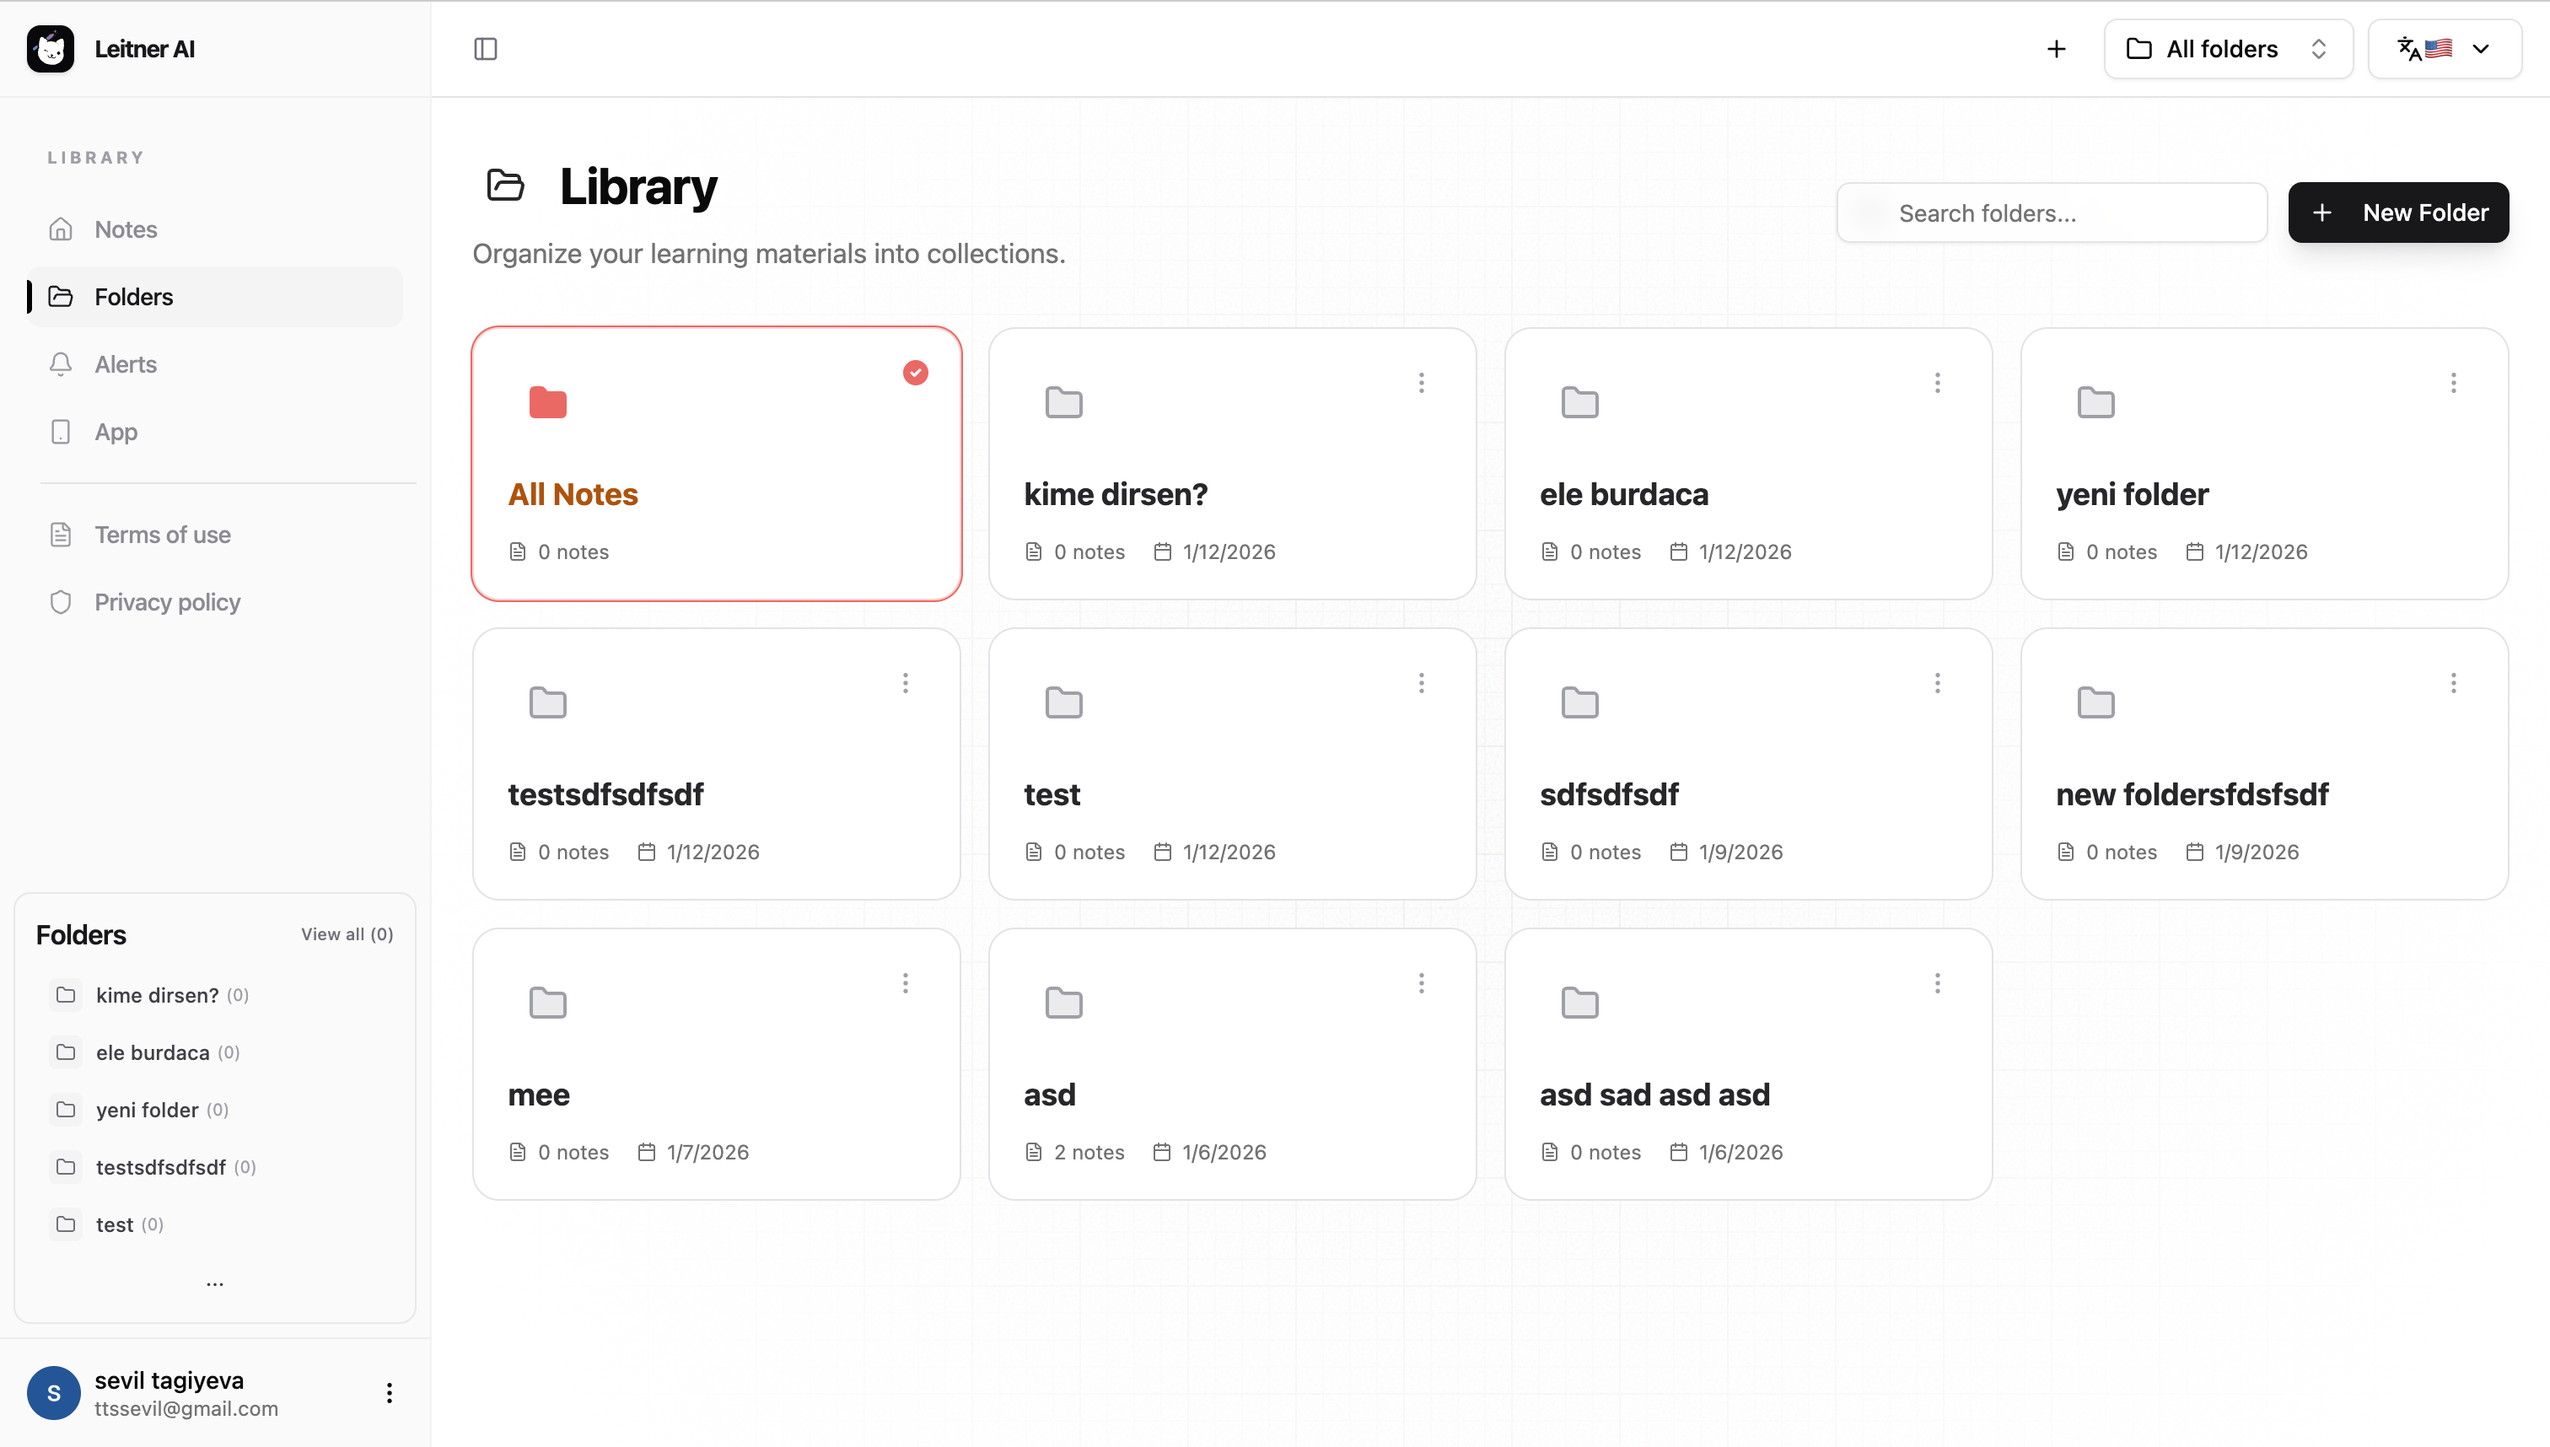
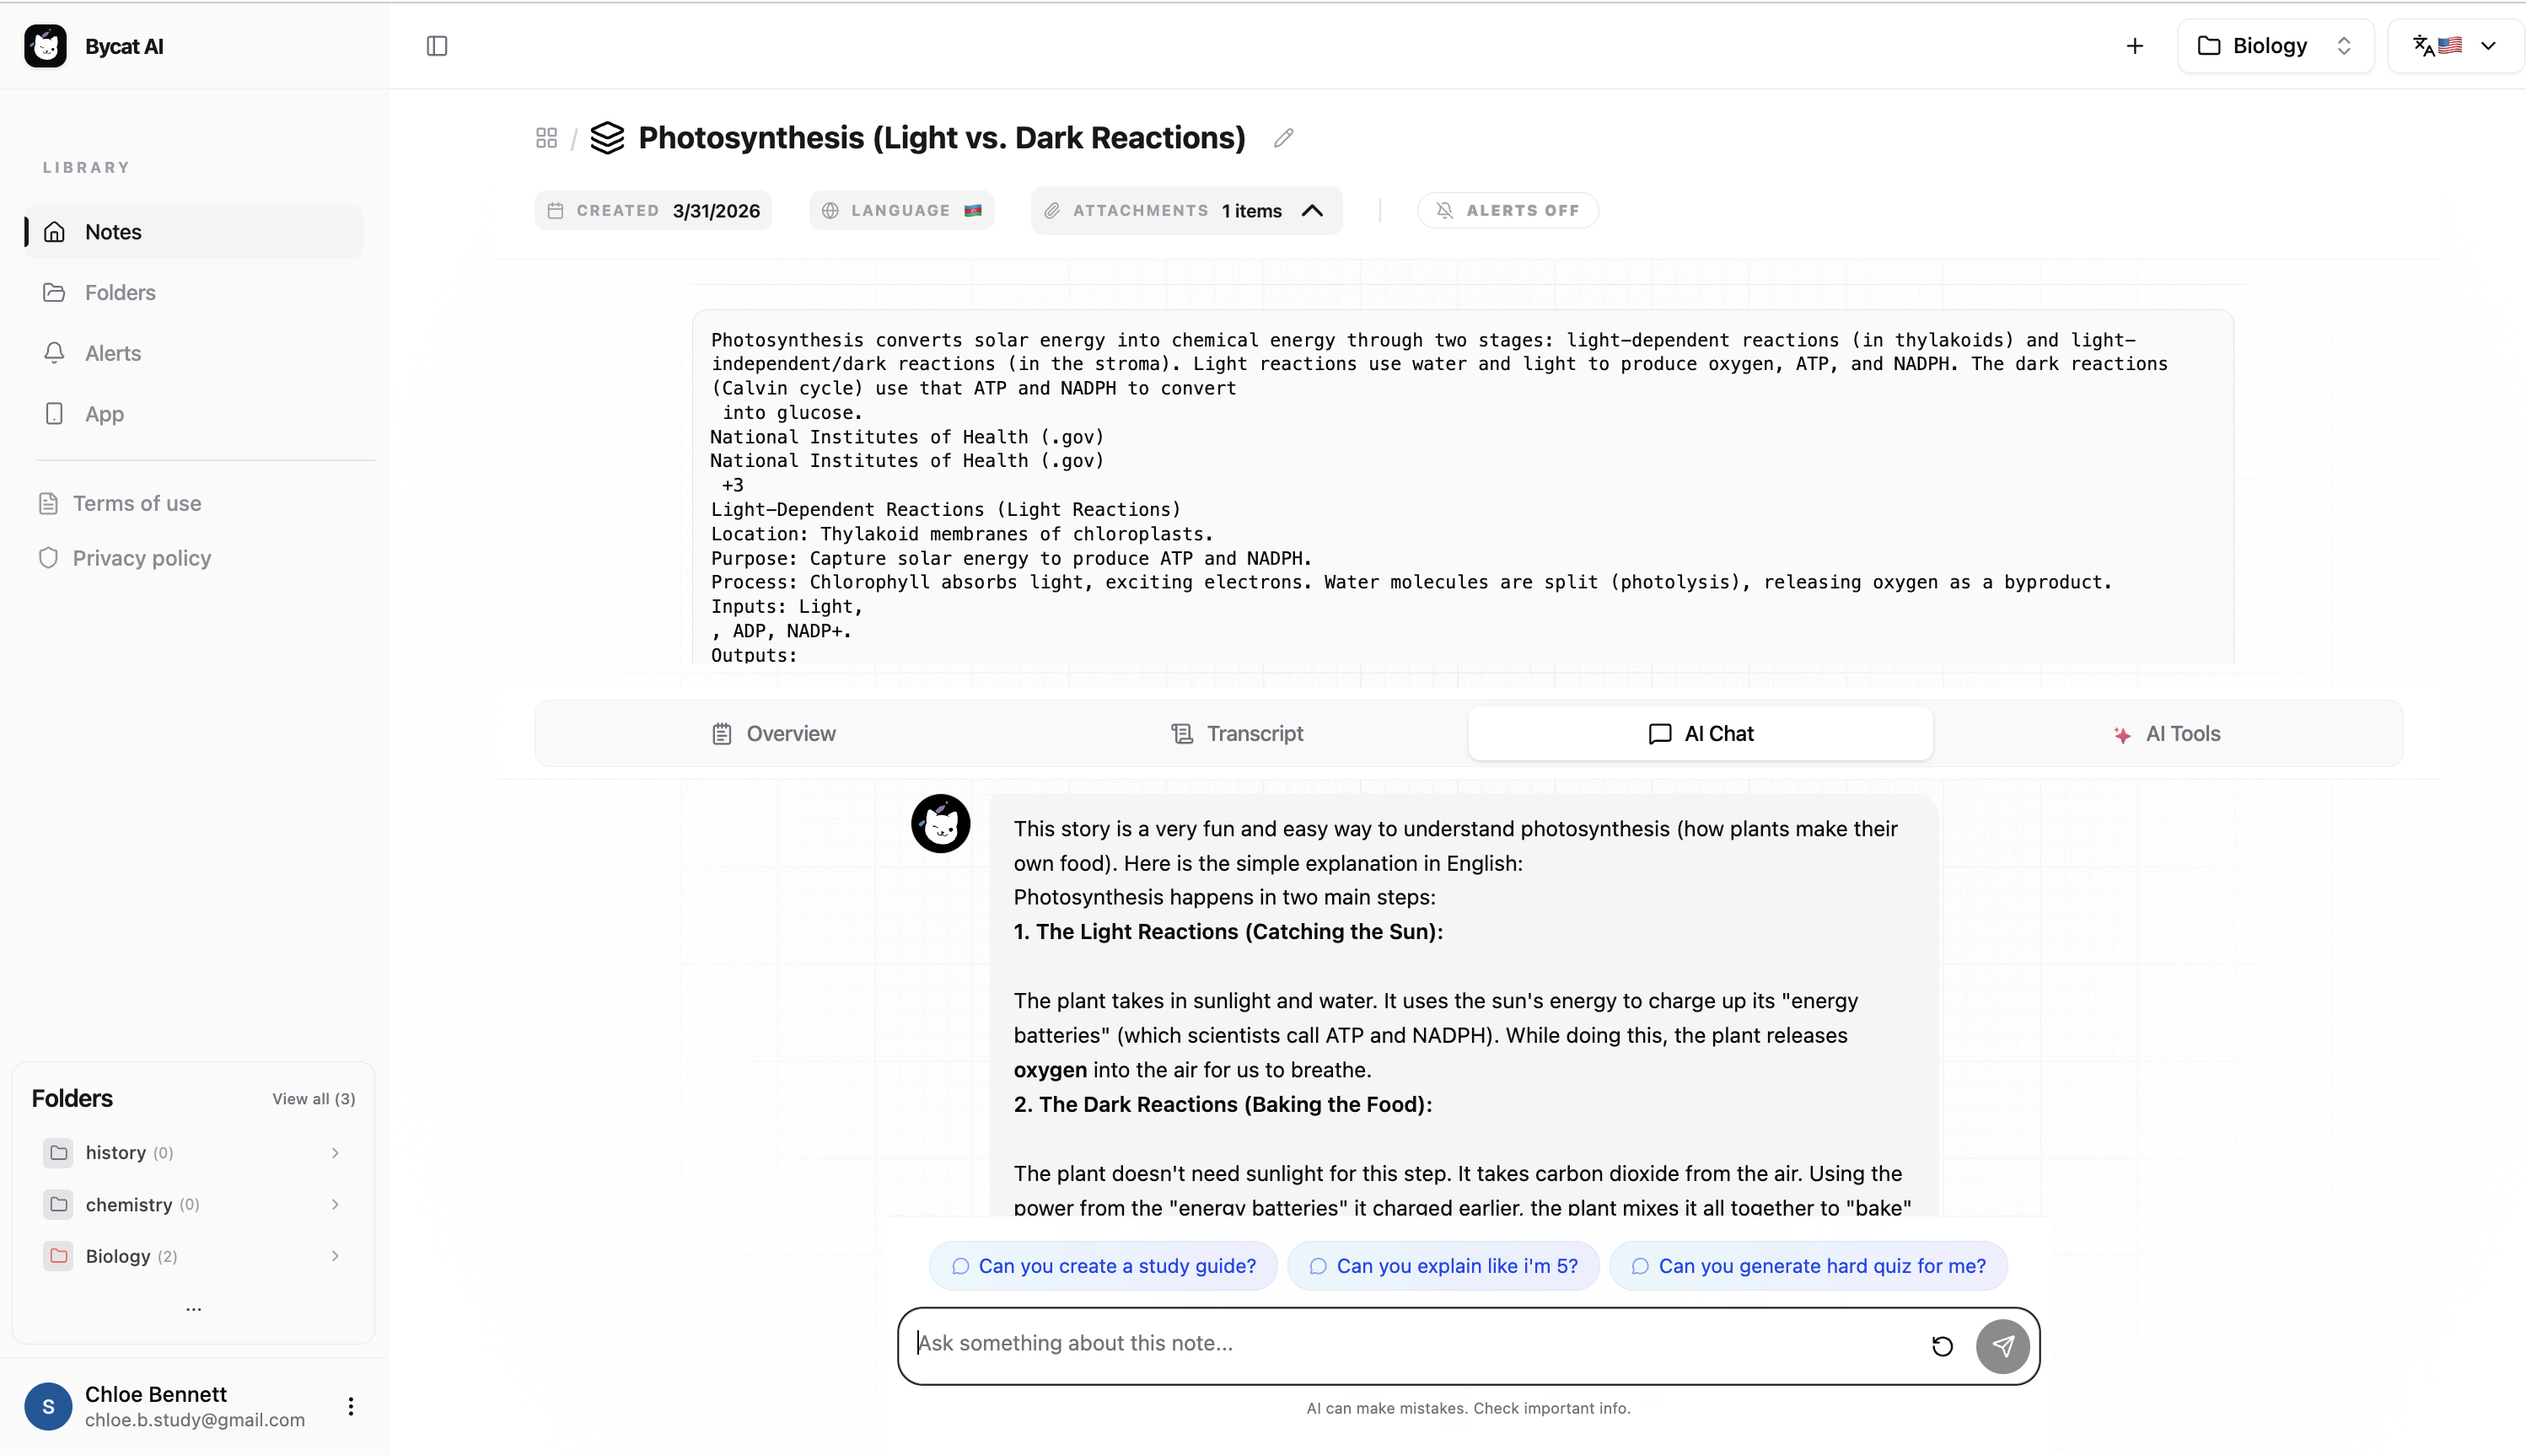
some seo optimizations

diff --git a/components/sections/pricing/default.tsx b/components/sections/pricing/default.tsx
@@ -20,8 +20,8 @@ export const PRICING_TIERS_CLAIM = [
     defaultPrice: 5.99,
     originalPrice: 0,
     description: "Perfect for short-term projects.",
-    discountId: "dsc_01kj5c3fkwfqcq1wdhect5nr19",
-    priceId: "pri_01kaxbbdytvqamegsd7e486r59", 
+    discountId: "dsc_01kn732qx3f2tk2pdpvjj2dav5",
+    priceId: "pri_01kn72e7s269tnzcakpvf9fvs5", 
     features: ['Unlimited notes', 'AI Chat', 'Unlimited quizzes & flashcards', 'Quiz notifications'],
   },
   {
@@ -34,26 +34,28 @@ export const PRICING_TIERS_CLAIM = [
     originalPrice: 6.99,
     discount: "50% OFF",
     description: "Recommended for ongoing usage.",
-    discountId: 'dsc_01kjt6watya70vrj8ctk8mbqpd',
-    priceId: "pri_01kjzazeat2rnb5vbaq9swatss", 
+    discountId: 'dsc_01kn733smjmmk9y4qhyhymvrfe',
+    priceId: "pri_01kn72r9q9rxq8sa54n4xe51w6", 
     features: ['Unlimited notes', 'AI Chat', 'Unlimited quizzes & flashcards', 'Quiz notifications'],
-    isPopular: true, 
+    isPopular: true, // Helper flag for default selection
   },
   {
     key: "annual",
     id: "pro_annual",
-    unit: "mo", // displaying as monthly equivalent
+    unit: "month",
     name: "Annual",
     defaultPrice: 79.99,
-    originalPrice: 65.89, 
+    originalPrice: 65.89, //239 dan endirime claimsiz gelende
     discount: "80% OFF",
     claimOffer: "+2 month free",
+    montly_price: 65.89,
     discountId: 'dsc_01kjt7062j64y950pwkfxttr8s',
-    priceId: "pri_01kjzb2btfc48bwr1s3jwjfc73",
+    priceId: "pri_01kn72whp6q7grp3jhzadkhnny",
     description: "Best value. Save significantly.",
     features: ['Unlimited notes', 'AI Chat', 'Unlimited quizzes & flashcards', 'Quiz notifications'],
   },
 ];
+
 
 export const PRICING_TIERS = [
   {
@@ -61,10 +63,9 @@ export const PRICING_TIERS = [
     id: "pro_weekly",
     unit: "week",
     name: "Weekly",
-    defaultPrice: null, // No strike-through for normal weekly
     originalPrice: 5.99,
     description: "Perfect for short-term projects.",
-    priceId: "pri_01kaxbbdytvqamegsd7e486r59", 
+    priceId: "pri_01kn72e7s269tnzcakpvf9fvs5", 
     features: ['Unlimited notes', 'AI Chat', 'Unlimited quizzes & flashcards', 'Quiz notifications'],
   },
   {
@@ -74,24 +75,24 @@ export const PRICING_TIERS = [
     name: "Monthly",
     defaultPrice: 34.99,
     originalPrice: 11.99,
-    discountId: 'dsc_01kbaks5he1g277bedvg06xs1m',
+    discountId: 'dsc_01kn728x05nvebcaadtwavjyjv',
     discount: "50% OFF",
     description: "Recommended for ongoing usage.",
-    priceId: "pri_01kaxb9tc7q2kqmh0c3rhda462", 
+    priceId: "pri_01kn72g7y1k1was8fy04fnk5pr", 
     features: ['Unlimited notes', 'AI Chat', 'Unlimited quizzes & flashcards', 'Quiz notifications'],
-    isPopular: true, 
+    isPopular: true, // Helper flag for default selection
   },
   {
     key: "annual",
     id: "pro_annual",
     name: "Annual",
-    unit: "mo", // displaying as monthly equivalent
+    unit: "month",
     defaultPrice: 239.99,
-    originalPrice: 79.99, 
+    originalPrice: 79.99, //239 dan endirime claimsiz gelende
     discount: "80% OFF",
-    discountId: 'dsc_01kbaksng47cf7gsr4wht0xrdq',
+    discountId: 'dsc_01kn7312xn4mas8fn4bbybkadp',
     description: "Best value. Save significantly.",
-    priceId: "pri_01kaxb7rjs3vkn4dtjrk8x7hmh",
+    priceId: "pri_01kn72nntvwtbx9fxpjq1sjyh2",
     features: ['Unlimited notes', 'AI Chat', 'Unlimited quizzes & flashcards', 'Quiz notifications'],
   },
 ];
@@ -102,7 +103,7 @@ export default function Pricing({ banner }: { banner?: any }) {
 
   // 1. Determine which data set to use based on the promo banner
   const hasPromo = !!banner;
-  const activeTiers = PRICING_TIERS;
+  const activeTiers = hasPromo ? PRICING_TIERS_CLAIM : PRICING_TIERS;
 
   useEffect(() => {
     let paddleInstance: Paddle | undefined;

diff --git a/components/sections/items/default.tsx b/components/sections/items/default.tsx
@@ -29,17 +29,17 @@ export default function Items({
   title = "Turn any content into knowledge.",
   items = [
     {
-      title: "Video to Notes",
+      title: "YouTube to Notes AI Summary",
       description: "Paste a YouTube link and get a comprehensive summary, transcript, and key points in seconds.",
       icon: <YoutubeIcon className="size-5 stroke-1" />,
     },
     {
-      title: "Smart PDF Reader",
+      title: "Smart PDF Reader & Chat",
       description: "Upload textbooks, research papers, or slides. We extract the text and organize the insights for you.",
       icon: <FileTextIcon className="size-5 stroke-1" />,
     },
     {
-      title: "Audio Transcription",
+      title: "Audio Lecture Transcription",
       description:
         "Record lectures or upload audio files. Perfect for meetings, seminars, and voice memos.",
       icon: <MicIcon className="size-5 stroke-1" />,
@@ -97,3 +97,40 @@ export default function Items({
     </Section>
   );
 }
+
+
+<script
+  type="application/ld+json"
+  dangerouslySetInnerHTML={{
+    __html: JSON.stringify({
+      "@context": "https://schema.org",
+      "@type": "FAQPage",
+      "mainEntity":[
+        {
+          "@type": "Question",
+          "name": "What formats can Bycat AI process?",
+          "acceptedAnswer": {
+            "@type": "Answer",
+            "text": "Bycat AI can process YouTube videos (up to 2 hours), Audio files (up to 3 hours), PDFs and Documents (up to 500 pages), and Images."
+          }
+        },
+        {
+          "@type": "Question",
+          "name": "Can I use Bycat AI for languages other than English?",
+          "acceptedAnswer": {
+            "@type": "Answer",
+            "text": "Yes, Bycat AI features multi-language support. You can upload study materials in any language and translate complex texts or generate notes in your native tongue."
+          }
+        },
+        {
+          "@type": "Question",
+          "name": "Is Bycat AI available for Android and iOS?",
+          "acceptedAnswer": {
+            "@type": "Answer",
+            "text": "Yes! All subscription plans include full access to both the iOS and Android mobile apps, syncing your study progress seamlessly across all devices."
+          }
+        }
+      ]
+    })
+  }}
+/>

diff --git a/app/layout.tsx b/app/layout.tsx
@@ -8,50 +8,24 @@ import { inter } from "@/lib/fonts";
 import { siteConfig } from "../config/site";
 
 export const metadata: Metadata = {
-  title: {
-    default: siteConfig.name,
-    template: `%s - ${siteConfig.name}`,
-  },
-  metadataBase: new URL(siteConfig.getStartedUrl),
-  description: siteConfig.description,
-  keywords: [
-    "Landing page template",
-    "Components",
-    "Shadcn",
-    "Next.js",
-    "React",
-    "Tailwind CSS",
-    "Radix UI",
+  title: 'Bycat AI | Turn Lectures, PDFs & YouTube into Study Notes',
+  description: 'The ultimate AI study app. Upload up to 500-page PDFs, 2-hour YouTube videos, and 3-hour audio lectures. Bycat AI instantly generates notes, flashcards, and quizzes.',
+  keywords:[
+    'AI study app', 
+    'YouTube to notes AI', 
+    'PDF to flashcards maker', 
+    'AI audio transcription for students',
+    'AI quiz generator',
+    'chat with PDF',
+    'lecture audio to text',
   ],
-  authors: [
-    {
-      name: "Mikolaj Dobrucki",
-      url: "https://mikolajdobrucki.com",
-    },
-  ],
-  creator: "mikolajdobrucki",
   openGraph: {
-    type: "website",
-    locale: "en_US",
-    url: siteConfig.getStartedUrl,
-    title: siteConfig.name,
-    description: siteConfig.description,
-    siteName: siteConfig.name,
-    images: [
-      {
-        url: siteConfig.ogImage,
-        width: 1200,
-        height: 630,
-        alt: siteConfig.name,
-      },
-    ],
-  },
-  twitter: {
-    card: "summary_large_image",
-    title: siteConfig.name,
-    description: siteConfig.description,
-    images: [siteConfig.ogImage],
-    creator: "@mikolajdobrucki",
+    title: 'Bycat AI | Study Smarter, Not Harder',
+    description: 'Instantly convert YouTube videos, PDFs, and audio lectures into interactive flashcards, quizzes, and notes.',
+    url: 'https://bycat.ai',
+    siteName: 'Bycat AI',
+    locale: 'en_US',
+    type: 'website',
   },
   icons: {
     icon: "/catpenlight.svg",

diff --git a/components/sections/hero/default.tsx b/components/sections/hero/default.tsx
@@ -18,9 +18,9 @@ import Banner from "@/components/ui/banner";
 // --- 1. STATIC 3D STACK COMPONENT (View from Left) ---
 
 const images = [
-  { srcLight: "/ss1.png", srcDark: "/ss1.png", alt: "Dashboard" },
-  { srcLight: "/ss2.png", srcDark: "/ss2.png", alt: "Chat" },
-  { srcLight: "/ss3.png", srcDark: "/ss3.png", alt: "Quiz" },
+  { srcLight: "/ss1.png", srcDark: "/ss1.png", alt: "Bycat AI dashboard converting a YouTube lecture video into study notes" },
+  { srcLight: "/ss2.png", srcDark: "/ss2.png", alt: "AI generated multiple choice quiz from a PDF textbook" },
+  { srcLight: "/ss3.png", srcDark: "/ss3.png", alt: "Digital flashcards automatically generated from lecture notes" },
 ];
 
 function StaticImageStack({ className }: { className?: string }) {
@@ -43,7 +43,7 @@ function StaticImageStack({ className }: { className?: string }) {
       */}
       <div 
         className="relative w-full h-full flex items-center justify-center scale-100 sm:scale-110 origin-center mx-auto"
-        style={{ transform: "perspective(1200px) rotateY(25deg) rotateX(10deg) translateX(-5%)" }}
+        style={{ transform: "perspective(1200px) rotateY(0deg) rotateX(10deg) translateX(-5%)" }}
       >
         {images.map((img, index) => (
           <div
@@ -122,8 +122,8 @@ interface HeroProps {
 }
 
 export default function Hero({
-  title = "Designed to fit every learning use case",
-  description = "Platform focused on your weakest areas! With Bycat.ai system platform identifies and drills your weakest areas, making your study sessions shorter and more effective.",
+  title = "The AI Study App for PDFs, YouTube, and Audio Lectures.",
+  description = "Upload up to 500-page documents or 2-hour videos. Bycat AI identifies your weakest areas and drills them with auto-generated flashcards and quizzes.",
   
   // *** MOCKUP SECTION REPLACED ***
   mockup = (
